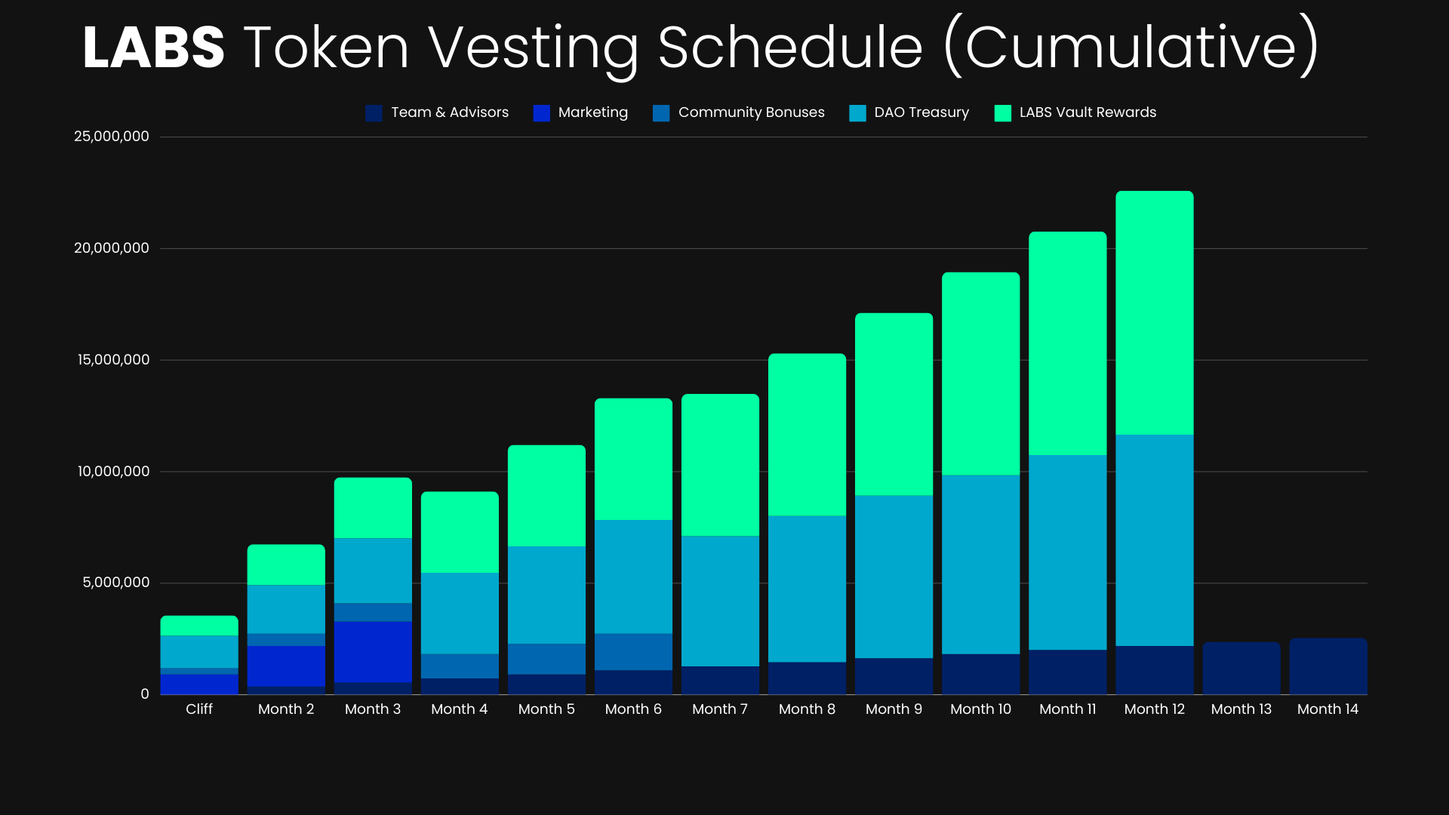
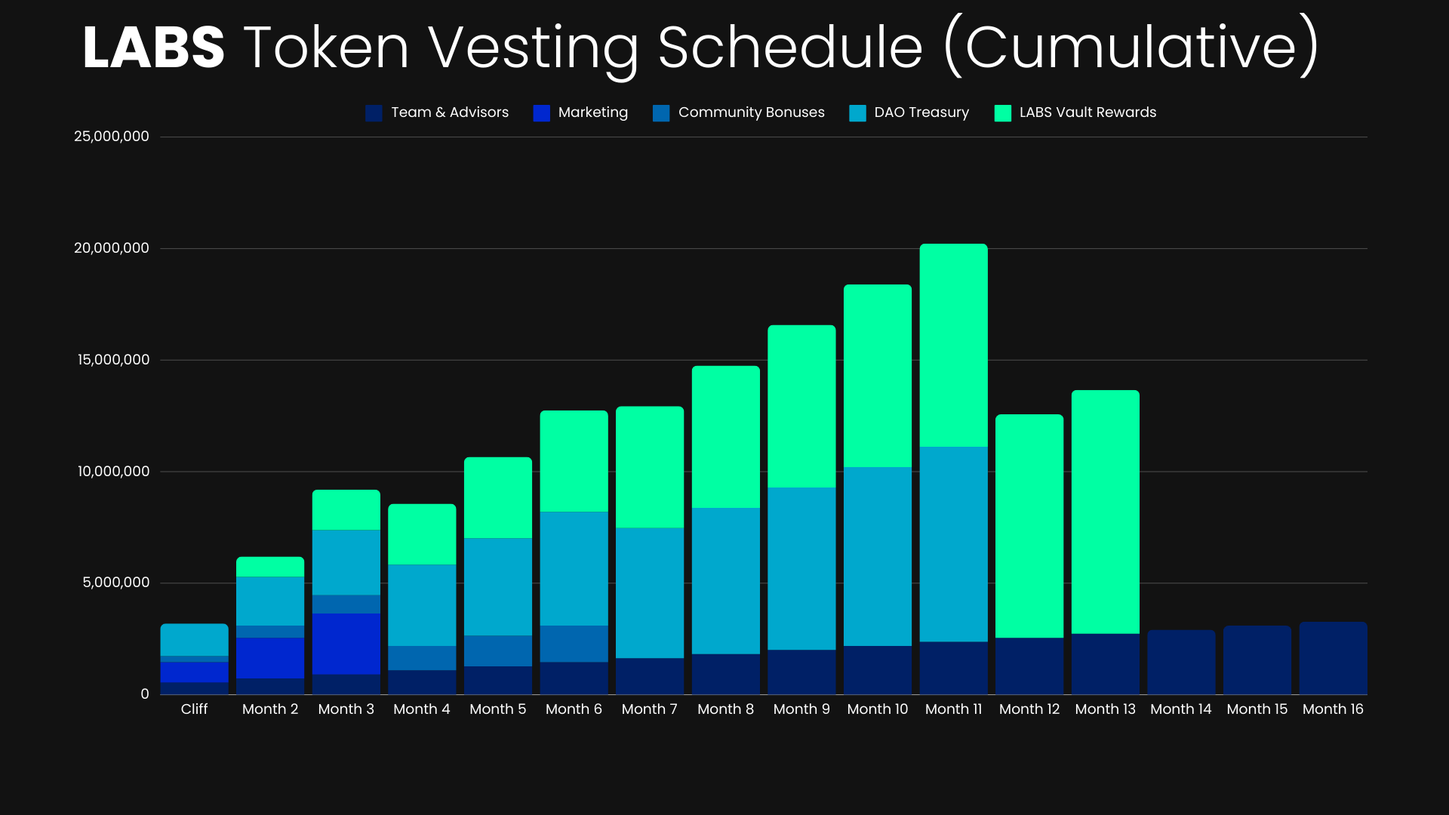
v0.3.1-patch

Changed region(s): [[0.0938, 0.2139, 0.9688, 0.8861]]

diff --git a/docs/.vitepress/dist/index.html b/docs/.vitepress/dist/index.html
@@ -17,8 +17,8 @@
     <script id="check-mac-os">document.documentElement.classList.toggle("mac",/Mac|iPhone|iPod|iPad/i.test(navigator.platform));</script>
   </head>
   <body>
-    <div id="app"><div class="Layout" data-v-a9a9e638><!--[--><!--]--><!--[--><span tabindex="-1" data-v-c3508ec8></span><a href="#VPContent" class="VPSkipLink visually-hidden" data-v-c3508ec8> Skip to content </a><!--]--><!----><header class="VPNav" data-v-a9a9e638 data-v-f1e365da><div class="VPNavBar home top" data-v-f1e365da data-v-40788ea0><div class="wrapper" data-v-40788ea0><div class="container" data-v-40788ea0><div class="title" data-v-40788ea0><div class="VPNavBarTitle" data-v-40788ea0 data-v-28a961f9><a class="title" href="/" data-v-28a961f9><!--[--><!--]--><!----><span data-v-28a961f9>Epicentral Labs</span><!--[--><!--]--></a></div></div><div class="content" data-v-40788ea0><div class="content-body" data-v-40788ea0><!--[--><!--]--><div class="VPNavBarSearch search" data-v-40788ea0><!----></div><nav aria-labelledby="main-nav-aria-label" class="VPNavBarMenu menu" data-v-40788ea0 data-v-492ea56d><span id="main-nav-aria-label" class="visually-hidden" data-v-492ea56d>Main Navigation</span><!--[--><!--[--><a class="VPLink link VPNavBarMenuLink active" href="/" tabindex="0" data-v-492ea56d data-v-ed5ac1f6><!--[--><span data-v-ed5ac1f6>Home</span><!--]--></a><!--]--><!--[--><div class="VPFlyout VPNavBarMenuGroup" data-v-492ea56d data-v-e5380155><button type="button" class="button" aria-haspopup="true" aria-expanded="false" data-v-e5380155><span class="text" data-v-e5380155><!----><span data-v-e5380155>v0.3.0</span><span class="vpi-chevron-down text-icon" data-v-e5380155></span></span></button><div class="menu" data-v-e5380155><div class="VPMenu" data-v-e5380155 data-v-97491713><div class="items" data-v-97491713><!--[--><!--[--><div class="VPMenuLink" data-v-97491713 data-v-8b74d055><a class="VPLink link" href="/lab-updates/website-changelog.html" data-v-8b74d055><!--[-->Website Changlogs<!--]--></a></div><!--]--><!--]--></div><!--[--><!--]--></div></div></div><!--]--><!--]--></nav><!----><div class="VPNavBarAppearance appearance" data-v-40788ea0 data-v-ead91a81><button class="VPSwitch VPSwitchAppearance" type="button" role="switch" title="Switch to dark theme" aria-checked="false" data-v-ead91a81 data-v-b79b56d4 data-v-4a1c76db><span class="check" data-v-4a1c76db><span class="icon" data-v-4a1c76db><!--[--><span class="vpi-sun sun" data-v-b79b56d4></span><span class="vpi-moon moon" data-v-b79b56d4></span><!--]--></span></span></button></div><div class="VPSocialLinks VPNavBarSocialLinks social-links" data-v-40788ea0 data-v-164c457f data-v-ee7a9424><!--[--><a class="VPSocialLink no-icon" href="https://x.com/EpicentralLabs" aria-label="twitter" target="_blank" rel="noopener" data-v-ee7a9424 data-v-717b8b75><span class="vpi-social-twitter" /></a><a class="VPSocialLink no-icon" href="https://github.com/EpicentralLabs" aria-label="github" target="_blank" rel="noopener" data-v-ee7a9424 data-v-717b8b75><span class="vpi-social-github" /></a><!--]--></div><div class="VPFlyout VPNavBarExtra extra" data-v-40788ea0 data-v-9b536d0b data-v-e5380155><button type="button" class="button" aria-haspopup="true" aria-expanded="false" aria-label="extra navigation" data-v-e5380155><span class="vpi-more-horizontal icon" data-v-e5380155></span></button><div class="menu" data-v-e5380155><div class="VPMenu" data-v-e5380155 data-v-97491713><!----><!--[--><!--[--><!----><div class="group" data-v-9b536d0b><div class="item appearance" data-v-9b536d0b><p class="label" data-v-9b536d0b>Appearance</p><div class="appearance-action" data-v-9b536d0b><button class="VPSwitch VPSwitchAppearance" type="button" role="switch" title="Switch to dark theme" aria-checked="false" data-v-9b536d0b data-v-b79b56d4 data-v-4a1c76db><span class="check" data-v-4a1c76db><span class="icon" data-v-4a1c76db><!--[--><span class="vpi-sun sun" data-v-b79b56d4></span><span class="vpi-moon moon" data-v-b79b56d4></span><!--]--></span></span></button></div></div></div><div class="group" data-v-9b536d0b><div class="item social-links" data-v-9b536d0b><div class="VPSocialLinks social-links-list" data-v-9b536d0b data-v-ee7a9424><!--[--><a class="VPSocialLink no-icon" href="https://x.com/EpicentralLabs" aria-label="twitter" target="_blank" rel="noopener" data-v-ee7a9424 data-v-717b8b75><span class="vpi-social-twitter" /></a><a class="VPSocialLink no-icon" href="https://github.com/EpicentralLabs" aria-label="github" target="_blank" rel="noopener" data-v-ee7a9424 data-v-717b8b75><span class="vpi-social-github" /></a><!--]--></div></div></div><!--]--><!--]--></div></div></div><!--[--><!--]--><button type="button" class="VPNavBarHamburger hamburger" aria-label="mobile navigation" aria-expanded="false" aria-controls="VPNavScreen" data-v-40788ea0 data-v-5dea55bf><span class="container" data-v-5dea55bf><span class="top" data-v-5dea55bf></span><span class="middle" data-v-5dea55bf></span><span class="bottom" data-v-5dea55bf></span></span></button></div></div></div></div><div class="divider" data-v-40788ea0><div class="divider-line" data-v-40788ea0></div></div></div><!----></header><!----><!----><div class="VPContent is-home" id="VPContent" data-v-a9a9e638 data-v-91765379><div class="VPHome" data-v-91765379 data-v-cbb6ec48><!--[--><!--]--><div class="VPHero VPHomeHero" data-v-cbb6ec48 data-v-955009fc><div class="container" data-v-955009fc><div class="main" data-v-955009fc><!--[--><!--]--><!--[--><h1 class="name" data-v-955009fc><span class="clip" data-v-955009fc>Epicentral Labs</span></h1><p class="text" data-v-955009fc>Accelerate Incentives & Participation</p><p class="tagline" data-v-955009fc>Creating innovative DeFi solutions...</p><!--]--><!--[--><!--]--><div class="actions" data-v-955009fc><!--[--><div class="action" data-v-955009fc><a class="VPButton medium brand" href="/introduction/about-us.html" data-v-955009fc data-v-14206e74>Open Docs</a></div><div class="action" data-v-955009fc><a class="VPButton medium alt" href="https://x.com/EpicentralLabs" target="_blank" rel="noreferrer" data-v-955009fc data-v-14206e74>Follow us on X! ==&gt;</a></div><div class="action" data-v-955009fc><a class="VPButton medium alt" href="https://discord.gg/5asAuY2sR8" target="_blank" rel="noreferrer" data-v-955009fc data-v-14206e74>Join our Discord! ==&gt;</a></div><!--]--></div><!--[--><!--]--></div><!----></div></div><!--[--><!--]--><!--[--><!--]--><!----><!--[--><!--]--><div class="vp-doc container" style="" data-v-cbb6ec48 data-v-7a48a447><!--[--><div style="position:relative;" data-v-cbb6ec48><div></div></div><!--]--></div></div></div><!----><!--[--><!--]--></div></div>
-    <script>window.__VP_HASH_MAP__=JSON.parse("{\"index.md\":\"Cdg-QEkT\",\"introduction_about-us.md\":\"g3RihTpL\",\"lab-updates_vault-program-changelog.md\":\"D0SBFZBA\",\"vault-program-docs_vault-faqs.md\":\"CttqLpem\",\"vault-program-docs_vault-fees.md\":\"Bjp6uOMy\",\"introduction_labstoken.md\":\"WLVF_ZDy\",\"vault-program-docs_introduction.md\":\"DqkuVLHA\",\"lab-updates_understanding-lab-updates.md\":\"BhIiNlm_\",\"terminology.md\":\"Bss73ZS8\",\"lab-updates_website-changelog.md\":\"DCeny9Gr\",\"vault-program-docs_understanding-vaults.md\":\"eFVOeCvV\"}");window.__VP_SITE_DATA__=JSON.parse("{\"lang\":\"en-US\",\"dir\":\"ltr\",\"title\":\"Epicentral Labs\",\"description\":\"Accelerate Project Incentives\",\"base\":\"/\",\"head\":[],\"router\":{\"prefetchLinks\":true},\"appearance\":true,\"themeConfig\":{\"nav\":[{\"text\":\"Home\",\"link\":\"/\"},{\"text\":\"v0.3.0\",\"items\":[{\"text\":\"Website Changlogs\",\"link\":\"/lab-updates/website-changelog\"}]}],\"sidebar\":[{\"text\":\"Introduction\",\"items\":[{\"text\":\"About Us\",\"link\":\"/introduction/about-us\"},{\"text\":\"Terminology\",\"link\":\"/terminology\"},{\"text\":\"LABS Token\",\"link\":\"/introduction/labstoken\"}]},{\"text\":\"Vault-Programs\",\"items\":[{\"text\":\"Introduction\",\"link\":\"/vault-program-docs/introduction\"},{\"text\":\"Vaults-Explained\",\"link\":\"/vault-program-docs/understanding-vaults\"},{\"text\":\"Fees\",\"link\":\"/vault-program-docs/vault-fees\"},{\"text\":\"FAQs\",\"link\":\"/vault-program-docs/vault-faqs\"}]},{\"text\":\"Links\",\"items\":[{\"text\":\"Epicentral Labs Website\",\"link\":\"https://docs.epicentrallabs.com/\"},{\"text\":\"X (Twitter)\",\"link\":\"https://x.com/EpicentralLabs\"},{\"text\":\"Discord\",\"link\":\"https://discord.gg/5asAuY2sR8\"},{\"text\":\"GitHub\",\"link\":\"https://github.com/EpicentralLabs\"}]},{\"text\":\"Lab Updates\",\"items\":[{\"text\":\"Understanding Lab Updates\",\"link\":\"/lab-updates/understanding-lab-updates.md\"},{\"text\":\"Changelog [Website]\",\"link\":\"/lab-updates/website-changelog\"},{\"text\":\"Changelog [Vault-Programs]\",\"link\":\"/lab-updates/vault-program-changelog\"}]}],\"socialLinks\":[{\"icon\":\"twitter\",\"link\":\"https://x.com/EpicentralLabs\"},{\"icon\":\"github\",\"link\":\"https://github.com/EpicentralLabs\"}]},\"locales\":{},\"scrollOffset\":134,\"cleanUrls\":false}");</script>
+    <div id="app"><div class="Layout" data-v-a9a9e638><!--[--><!--]--><!--[--><span tabindex="-1" data-v-c3508ec8></span><a href="#VPContent" class="VPSkipLink visually-hidden" data-v-c3508ec8> Skip to content </a><!--]--><!----><header class="VPNav" data-v-a9a9e638 data-v-f1e365da><div class="VPNavBar home top" data-v-f1e365da data-v-40788ea0><div class="wrapper" data-v-40788ea0><div class="container" data-v-40788ea0><div class="title" data-v-40788ea0><div class="VPNavBarTitle" data-v-40788ea0 data-v-28a961f9><a class="title" href="/" data-v-28a961f9><!--[--><!--]--><!----><span data-v-28a961f9>Epicentral Labs</span><!--[--><!--]--></a></div></div><div class="content" data-v-40788ea0><div class="content-body" data-v-40788ea0><!--[--><!--]--><div class="VPNavBarSearch search" data-v-40788ea0><!----></div><nav aria-labelledby="main-nav-aria-label" class="VPNavBarMenu menu" data-v-40788ea0 data-v-492ea56d><span id="main-nav-aria-label" class="visually-hidden" data-v-492ea56d>Main Navigation</span><!--[--><!--[--><a class="VPLink link VPNavBarMenuLink active" href="/" tabindex="0" data-v-492ea56d data-v-ed5ac1f6><!--[--><span data-v-ed5ac1f6>Home</span><!--]--></a><!--]--><!--[--><div class="VPFlyout VPNavBarMenuGroup" data-v-492ea56d data-v-e5380155><button type="button" class="button" aria-haspopup="true" aria-expanded="false" data-v-e5380155><span class="text" data-v-e5380155><!----><span data-v-e5380155>v0.3.1</span><span class="vpi-chevron-down text-icon" data-v-e5380155></span></span></button><div class="menu" data-v-e5380155><div class="VPMenu" data-v-e5380155 data-v-97491713><div class="items" data-v-97491713><!--[--><!--[--><div class="VPMenuLink" data-v-97491713 data-v-8b74d055><a class="VPLink link" href="/lab-updates/website-changelog.html" data-v-8b74d055><!--[-->Website Changlogs<!--]--></a></div><!--]--><!--]--></div><!--[--><!--]--></div></div></div><!--]--><!--]--></nav><!----><div class="VPNavBarAppearance appearance" data-v-40788ea0 data-v-ead91a81><button class="VPSwitch VPSwitchAppearance" type="button" role="switch" title="Switch to dark theme" aria-checked="false" data-v-ead91a81 data-v-b79b56d4 data-v-4a1c76db><span class="check" data-v-4a1c76db><span class="icon" data-v-4a1c76db><!--[--><span class="vpi-sun sun" data-v-b79b56d4></span><span class="vpi-moon moon" data-v-b79b56d4></span><!--]--></span></span></button></div><div class="VPSocialLinks VPNavBarSocialLinks social-links" data-v-40788ea0 data-v-164c457f data-v-ee7a9424><!--[--><a class="VPSocialLink no-icon" href="https://x.com/EpicentralLabs" aria-label="twitter" target="_blank" rel="noopener" data-v-ee7a9424 data-v-717b8b75><span class="vpi-social-twitter" /></a><a class="VPSocialLink no-icon" href="https://github.com/EpicentralLabs" aria-label="github" target="_blank" rel="noopener" data-v-ee7a9424 data-v-717b8b75><span class="vpi-social-github" /></a><!--]--></div><div class="VPFlyout VPNavBarExtra extra" data-v-40788ea0 data-v-9b536d0b data-v-e5380155><button type="button" class="button" aria-haspopup="true" aria-expanded="false" aria-label="extra navigation" data-v-e5380155><span class="vpi-more-horizontal icon" data-v-e5380155></span></button><div class="menu" data-v-e5380155><div class="VPMenu" data-v-e5380155 data-v-97491713><!----><!--[--><!--[--><!----><div class="group" data-v-9b536d0b><div class="item appearance" data-v-9b536d0b><p class="label" data-v-9b536d0b>Appearance</p><div class="appearance-action" data-v-9b536d0b><button class="VPSwitch VPSwitchAppearance" type="button" role="switch" title="Switch to dark theme" aria-checked="false" data-v-9b536d0b data-v-b79b56d4 data-v-4a1c76db><span class="check" data-v-4a1c76db><span class="icon" data-v-4a1c76db><!--[--><span class="vpi-sun sun" data-v-b79b56d4></span><span class="vpi-moon moon" data-v-b79b56d4></span><!--]--></span></span></button></div></div></div><div class="group" data-v-9b536d0b><div class="item social-links" data-v-9b536d0b><div class="VPSocialLinks social-links-list" data-v-9b536d0b data-v-ee7a9424><!--[--><a class="VPSocialLink no-icon" href="https://x.com/EpicentralLabs" aria-label="twitter" target="_blank" rel="noopener" data-v-ee7a9424 data-v-717b8b75><span class="vpi-social-twitter" /></a><a class="VPSocialLink no-icon" href="https://github.com/EpicentralLabs" aria-label="github" target="_blank" rel="noopener" data-v-ee7a9424 data-v-717b8b75><span class="vpi-social-github" /></a><!--]--></div></div></div><!--]--><!--]--></div></div></div><!--[--><!--]--><button type="button" class="VPNavBarHamburger hamburger" aria-label="mobile navigation" aria-expanded="false" aria-controls="VPNavScreen" data-v-40788ea0 data-v-5dea55bf><span class="container" data-v-5dea55bf><span class="top" data-v-5dea55bf></span><span class="middle" data-v-5dea55bf></span><span class="bottom" data-v-5dea55bf></span></span></button></div></div></div></div><div class="divider" data-v-40788ea0><div class="divider-line" data-v-40788ea0></div></div></div><!----></header><!----><!----><div class="VPContent is-home" id="VPContent" data-v-a9a9e638 data-v-91765379><div class="VPHome" data-v-91765379 data-v-cbb6ec48><!--[--><!--]--><div class="VPHero VPHomeHero" data-v-cbb6ec48 data-v-955009fc><div class="container" data-v-955009fc><div class="main" data-v-955009fc><!--[--><!--]--><!--[--><h1 class="name" data-v-955009fc><span class="clip" data-v-955009fc>Epicentral Labs</span></h1><p class="text" data-v-955009fc>Accelerate Incentives & Participation</p><p class="tagline" data-v-955009fc>Creating innovative DeFi solutions...</p><!--]--><!--[--><!--]--><div class="actions" data-v-955009fc><!--[--><div class="action" data-v-955009fc><a class="VPButton medium brand" href="/introduction/about-us.html" data-v-955009fc data-v-14206e74>Open Docs</a></div><div class="action" data-v-955009fc><a class="VPButton medium alt" href="https://x.com/EpicentralLabs" target="_blank" rel="noreferrer" data-v-955009fc data-v-14206e74>Follow us on X! ==&gt;</a></div><div class="action" data-v-955009fc><a class="VPButton medium alt" href="https://discord.gg/5asAuY2sR8" target="_blank" rel="noreferrer" data-v-955009fc data-v-14206e74>Join our Discord! ==&gt;</a></div><!--]--></div><!--[--><!--]--></div><!----></div></div><!--[--><!--]--><!--[--><!--]--><!----><!--[--><!--]--><div class="vp-doc container" style="" data-v-cbb6ec48 data-v-7a48a447><!--[--><div style="position:relative;" data-v-cbb6ec48><div></div></div><!--]--></div></div></div><!----><!--[--><!--]--></div></div>
+    <script>window.__VP_HASH_MAP__=JSON.parse("{\"vault-program-docs_vault-faqs.md\":\"CttqLpem\",\"introduction_labstoken.md\":\"iq5k8Tbr\",\"introduction_about-us.md\":\"g3RihTpL\",\"terminology.md\":\"Bss73ZS8\",\"lab-updates_vault-program-changelog.md\":\"D0SBFZBA\",\"vault-program-docs_understanding-vaults.md\":\"eFVOeCvV\",\"lab-updates_understanding-lab-updates.md\":\"BhIiNlm_\",\"index.md\":\"Cdg-QEkT\",\"vault-program-docs_vault-fees.md\":\"Bjp6uOMy\",\"lab-updates_website-changelog.md\":\"CkvZm_0C\",\"vault-program-docs_introduction.md\":\"DqkuVLHA\"}");window.__VP_SITE_DATA__=JSON.parse("{\"lang\":\"en-US\",\"dir\":\"ltr\",\"title\":\"Epicentral Labs\",\"description\":\"Accelerate Project Incentives\",\"base\":\"/\",\"head\":[],\"router\":{\"prefetchLinks\":true},\"appearance\":true,\"themeConfig\":{\"nav\":[{\"text\":\"Home\",\"link\":\"/\"},{\"text\":\"v0.3.1\",\"items\":[{\"text\":\"Website Changlogs\",\"link\":\"/lab-updates/website-changelog\"}]}],\"sidebar\":[{\"text\":\"Introduction\",\"items\":[{\"text\":\"About Us\",\"link\":\"/introduction/about-us\"},{\"text\":\"Terminology\",\"link\":\"/terminology\"},{\"text\":\"LABS Token\",\"link\":\"/introduction/labstoken\"}]},{\"text\":\"Vault-Programs\",\"items\":[{\"text\":\"Introduction\",\"link\":\"/vault-program-docs/introduction\"},{\"text\":\"Vaults-Explained\",\"link\":\"/vault-program-docs/understanding-vaults\"},{\"text\":\"Fees\",\"link\":\"/vault-program-docs/vault-fees\"},{\"text\":\"FAQs\",\"link\":\"/vault-program-docs/vault-faqs\"}]},{\"text\":\"Links\",\"items\":[{\"text\":\"Epicentral Labs Website\",\"link\":\"https://docs.epicentrallabs.com/\"},{\"text\":\"X (Twitter)\",\"link\":\"https://x.com/EpicentralLabs\"},{\"text\":\"Discord\",\"link\":\"https://discord.gg/5asAuY2sR8\"},{\"text\":\"GitHub\",\"link\":\"https://github.com/EpicentralLabs\"}]},{\"text\":\"Lab Updates\",\"items\":[{\"text\":\"Understanding Lab Updates\",\"link\":\"/lab-updates/understanding-lab-updates.md\"},{\"text\":\"Changelog [Website]\",\"link\":\"/lab-updates/website-changelog\"},{\"text\":\"Changelog [Vault-Programs]\",\"link\":\"/lab-updates/vault-program-changelog\"}]}],\"socialLinks\":[{\"icon\":\"twitter\",\"link\":\"https://x.com/EpicentralLabs\"},{\"icon\":\"github\",\"link\":\"https://github.com/EpicentralLabs\"}]},\"locales\":{},\"scrollOffset\":134,\"cleanUrls\":false}");</script>
     
   </body>
 </html>

diff --git a/docs/.vitepress/dist/404.html b/docs/.vitepress/dist/404.html
@@ -15,7 +15,7 @@
   </head>
   <body>
     <div id="app"></div>
-    <script>window.__VP_HASH_MAP__=JSON.parse("{\"index.md\":\"Cdg-QEkT\",\"introduction_about-us.md\":\"g3RihTpL\",\"lab-updates_vault-program-changelog.md\":\"D0SBFZBA\",\"vault-program-docs_vault-faqs.md\":\"CttqLpem\",\"vault-program-docs_vault-fees.md\":\"Bjp6uOMy\",\"introduction_labstoken.md\":\"WLVF_ZDy\",\"vault-program-docs_introduction.md\":\"DqkuVLHA\",\"lab-updates_understanding-lab-updates.md\":\"BhIiNlm_\",\"terminology.md\":\"Bss73ZS8\",\"lab-updates_website-changelog.md\":\"DCeny9Gr\",\"vault-program-docs_understanding-vaults.md\":\"eFVOeCvV\"}");window.__VP_SITE_DATA__=JSON.parse("{\"lang\":\"en-US\",\"dir\":\"ltr\",\"title\":\"Epicentral Labs\",\"description\":\"Accelerate Project Incentives\",\"base\":\"/\",\"head\":[],\"router\":{\"prefetchLinks\":true},\"appearance\":true,\"themeConfig\":{\"nav\":[{\"text\":\"Home\",\"link\":\"/\"},{\"text\":\"v0.3.0\",\"items\":[{\"text\":\"Website Changlogs\",\"link\":\"/lab-updates/website-changelog\"}]}],\"sidebar\":[{\"text\":\"Introduction\",\"items\":[{\"text\":\"About Us\",\"link\":\"/introduction/about-us\"},{\"text\":\"Terminology\",\"link\":\"/terminology\"},{\"text\":\"LABS Token\",\"link\":\"/introduction/labstoken\"}]},{\"text\":\"Vault-Programs\",\"items\":[{\"text\":\"Introduction\",\"link\":\"/vault-program-docs/introduction\"},{\"text\":\"Vaults-Explained\",\"link\":\"/vault-program-docs/understanding-vaults\"},{\"text\":\"Fees\",\"link\":\"/vault-program-docs/vault-fees\"},{\"text\":\"FAQs\",\"link\":\"/vault-program-docs/vault-faqs\"}]},{\"text\":\"Links\",\"items\":[{\"text\":\"Epicentral Labs Website\",\"link\":\"https://docs.epicentrallabs.com/\"},{\"text\":\"X (Twitter)\",\"link\":\"https://x.com/EpicentralLabs\"},{\"text\":\"Discord\",\"link\":\"https://discord.gg/5asAuY2sR8\"},{\"text\":\"GitHub\",\"link\":\"https://github.com/EpicentralLabs\"}]},{\"text\":\"Lab Updates\",\"items\":[{\"text\":\"Understanding Lab Updates\",\"link\":\"/lab-updates/understanding-lab-updates.md\"},{\"text\":\"Changelog [Website]\",\"link\":\"/lab-updates/website-changelog\"},{\"text\":\"Changelog [Vault-Programs]\",\"link\":\"/lab-updates/vault-program-changelog\"}]}],\"socialLinks\":[{\"icon\":\"twitter\",\"link\":\"https://x.com/EpicentralLabs\"},{\"icon\":\"github\",\"link\":\"https://github.com/EpicentralLabs\"}]},\"locales\":{},\"scrollOffset\":134,\"cleanUrls\":false}");</script>
+    <script>window.__VP_HASH_MAP__=JSON.parse("{\"vault-program-docs_vault-faqs.md\":\"CttqLpem\",\"introduction_labstoken.md\":\"iq5k8Tbr\",\"introduction_about-us.md\":\"g3RihTpL\",\"terminology.md\":\"Bss73ZS8\",\"lab-updates_vault-program-changelog.md\":\"D0SBFZBA\",\"vault-program-docs_understanding-vaults.md\":\"eFVOeCvV\",\"lab-updates_understanding-lab-updates.md\":\"BhIiNlm_\",\"index.md\":\"Cdg-QEkT\",\"vault-program-docs_vault-fees.md\":\"Bjp6uOMy\",\"lab-updates_website-changelog.md\":\"CkvZm_0C\",\"vault-program-docs_introduction.md\":\"DqkuVLHA\"}");window.__VP_SITE_DATA__=JSON.parse("{\"lang\":\"en-US\",\"dir\":\"ltr\",\"title\":\"Epicentral Labs\",\"description\":\"Accelerate Project Incentives\",\"base\":\"/\",\"head\":[],\"router\":{\"prefetchLinks\":true},\"appearance\":true,\"themeConfig\":{\"nav\":[{\"text\":\"Home\",\"link\":\"/\"},{\"text\":\"v0.3.1\",\"items\":[{\"text\":\"Website Changlogs\",\"link\":\"/lab-updates/website-changelog\"}]}],\"sidebar\":[{\"text\":\"Introduction\",\"items\":[{\"text\":\"About Us\",\"link\":\"/introduction/about-us\"},{\"text\":\"Terminology\",\"link\":\"/terminology\"},{\"text\":\"LABS Token\",\"link\":\"/introduction/labstoken\"}]},{\"text\":\"Vault-Programs\",\"items\":[{\"text\":\"Introduction\",\"link\":\"/vault-program-docs/introduction\"},{\"text\":\"Vaults-Explained\",\"link\":\"/vault-program-docs/understanding-vaults\"},{\"text\":\"Fees\",\"link\":\"/vault-program-docs/vault-fees\"},{\"text\":\"FAQs\",\"link\":\"/vault-program-docs/vault-faqs\"}]},{\"text\":\"Links\",\"items\":[{\"text\":\"Epicentral Labs Website\",\"link\":\"https://docs.epicentrallabs.com/\"},{\"text\":\"X (Twitter)\",\"link\":\"https://x.com/EpicentralLabs\"},{\"text\":\"Discord\",\"link\":\"https://discord.gg/5asAuY2sR8\"},{\"text\":\"GitHub\",\"link\":\"https://github.com/EpicentralLabs\"}]},{\"text\":\"Lab Updates\",\"items\":[{\"text\":\"Understanding Lab Updates\",\"link\":\"/lab-updates/understanding-lab-updates.md\"},{\"text\":\"Changelog [Website]\",\"link\":\"/lab-updates/website-changelog\"},{\"text\":\"Changelog [Vault-Programs]\",\"link\":\"/lab-updates/vault-program-changelog\"}]}],\"socialLinks\":[{\"icon\":\"twitter\",\"link\":\"https://x.com/EpicentralLabs\"},{\"icon\":\"github\",\"link\":\"https://github.com/EpicentralLabs\"}]},\"locales\":{},\"scrollOffset\":134,\"cleanUrls\":false}");</script>
     
   </body>
 </html>

diff --git a/docs/src/introduction/labstoken.md b/docs/src/introduction/labstoken.md
@@ -54,12 +54,34 @@ For all of our visual learners out there, below is a stacked bar chart showcasin
 
 | **Allocation:** | **Cliff Amount** | **Quanity Released:** | **Vesting Period:** | **Rate:** | **Amount Already Released:** |
 |:-------:|:-------:|:-------:|:-------:|:-------:|:-------:|
-| LABS-Vault Reward Pool: | **0** | **910,877** | 12 Months | Once per month | **0** |
-| DAO Treasury: | **1,457,402** | **728,701** | 12 Months | Once per month | **0** |
-| Team & Advisors: | **364,356*** | **182,175** | 14 Months | Once per month | **0** |
-| Marketing: | **910,877** | **910,877** | 2 Months | Once per month | **0** |
-| Community Bonuses: | **273,263** | **273,263** | 5 Months | Once per month | **0** |
+| LABS-Vault Reward Pool: | **0** | **910,877** | 13 Months | Once per month | **0** |
+| DAO Treasury: | **1,457,402** | **728,701** | 11 Months | Once per month | **1,457,402** |
+| Team & Advisors: | **546,531** | **182,175** | 15 Months | Once per month | **0** |
+| Marketing: | **910,877** | **910,877** | 3 Months | Once per month | **910,877** |
+| Community Bonuses: | **273,263** | **273,263** | 6 Months | Once per month | **273,263** |
 
+*(This allocation is before [StreamFlow Finance](https://streamflow.finance/) fee of 0.19%).*
+
+## Tokenomics Distribution Contracts
+* [LABS-Vault Reward Pool](https://app.streamflow.finance/contract/solana/mainnet/4xcfeTFsJtHJqMy4D7JKuwFeAhg1SeRoBF86M1jtnNJ7)
+* [DAO Treasury Pool](https://app.streamflow.finance/contract/solana/mainnet/FJpB3T4Y73XRrK98VFH7VowR3x1yGpjEUXsuNm841yjo)
+* [Marketing Pool](https://app.streamflow.finance/contract/solana/mainnet/EgDxcfuDwCXhrrfczia9bFEvCtc2cUGqHZwr2bPWDqXT)
+* [Community Bonuses Pool](https://app.streamflow.finance/contract/solana/mainnet/BcDHvTezFGL1iSooz682FjVUnUqTFcZ3PY4aaAYxRctP)
+
+### Team Allocation Contracts
+* [Head Project Manager](https://app.streamflow.finance/contract/solana/mainnet/8QNcH3ui247mK6xaBwZKm821WRz7FhbUVqPjRE92nBvR)
+* [Internal Contributor 1](https://app.streamflow.finance/contract/solana/mainnet/HZwSTiBFXBmjbLeeLkid8KB2SP59tNEHA7sj9TXoVHRx)
+* [Internal Contributor 2](https://app.streamflow.finance/contract/solana/mainnet/GTP1PPsjQrJAWB1tUqfyFrtDCzBKFjLyXWbQQwEhGH52)
+* [Head of Server Operations](https://app.streamflow.finance/contract/solana/mainnet/JCLcL3mZuBPwQdY61qxaUVxWh7f2UDyPaWuHBwYzoTFt)
+* [Internal Contributor 3](https://app.streamflow.finance/contract/solana/mainnet/26CeyQhirDizgSrN5rNTr3Fs7zonHqiYhmEoU9sDEXWb)
+* [Internal Contributor 4](https://app.streamflow.finance/contract/solana/mainnet/ETyJaZsKUQbjsjJn4Q66GidvhBVxxjmdJshEUAXLUmhM)
+* [Technical Specialist - F/E Dev](https://app.streamflow.finance/contract/solana/mainnet/ECeE5kMPMyA8QAsjv8DYf5NERQYVgNDzw8etMPiwxwjm)
+* [Internal Contributor 5](https://app.streamflow.finance/contract/solana/mainnet/FQTMadFjGoTrENATn5iaAYgpdXmEMy1KQAzLr1ADbTzK)
+* [Head Content Creator](https://app.streamflow.finance/contract/solana/mainnet/P8oBYnNE1o6j7abiMLeDe4xnxxxfw2yrbQRmxLz2dtx)
+* [Internal Contributor 6](https://app.streamflow.finance/contract/solana/mainnet/EzFAbwy8fTwbZwpkoRJ69E9boANiqzgR21ioLnFMLdpz)
+* Lead Technical Specialist - Yet to Vote by [DAO](https://app.realms.today/dao/5PP7vKjJyLw1MR55LoexRsCj3CpZj9MdD6aNXRrvxG42) Council
+* Logo Designer - Yet to Vote by [DAO](https://app.realms.today/dao/5PP7vKjJyLw1MR55LoexRsCj3CpZj9MdD6aNXRrvxG42) Council
+* Head of Growth - Yet to Vote by [DAO](https://app.realms.today/dao/5PP7vKjJyLw1MR55LoexRsCj3CpZj9MdD6aNXRrvxG42) Council
 
 
 Vesting Schedules are important for start up projects and businesses that wish to succeed long term. It is critical that every detail in the tokenomics of LABS is measured precisely so that there aren't any future dilemmas in how to go about releasing tokens. 

diff --git a/docs/src/lab-updates/website-changelog.md b/docs/src/lab-updates/website-changelog.md
@@ -2,6 +2,13 @@
 
 Most recent version will be presented at the top of the page. All changes made to the website/documentation pages is posted here. With all/any new releases made on GitHub, the description of what has changed is listed here. 
 
+## v0.3.1 (7/27/2024)
+### Added:
+* New section added for the LABS Token Vesting Contracts. Hyperlinks. 
+### Bug Fix:
+* Updated Vesting Schedule Graphs as they were initially incorrect. 
+* Vesting Table Chart updated to coalign with the correct/updated Vesting Schedule Graphs.
+
 ## v0.3.0 (7/26/2024)
 ### Removed:
 * LABS Token "Launch Date" banner removed for simplicity. [47a8369](https://github.com/TheLazySol/lab-docs/commit/47a8369d14175eb110d2e4b5ffabbcd2f69db9b8)
